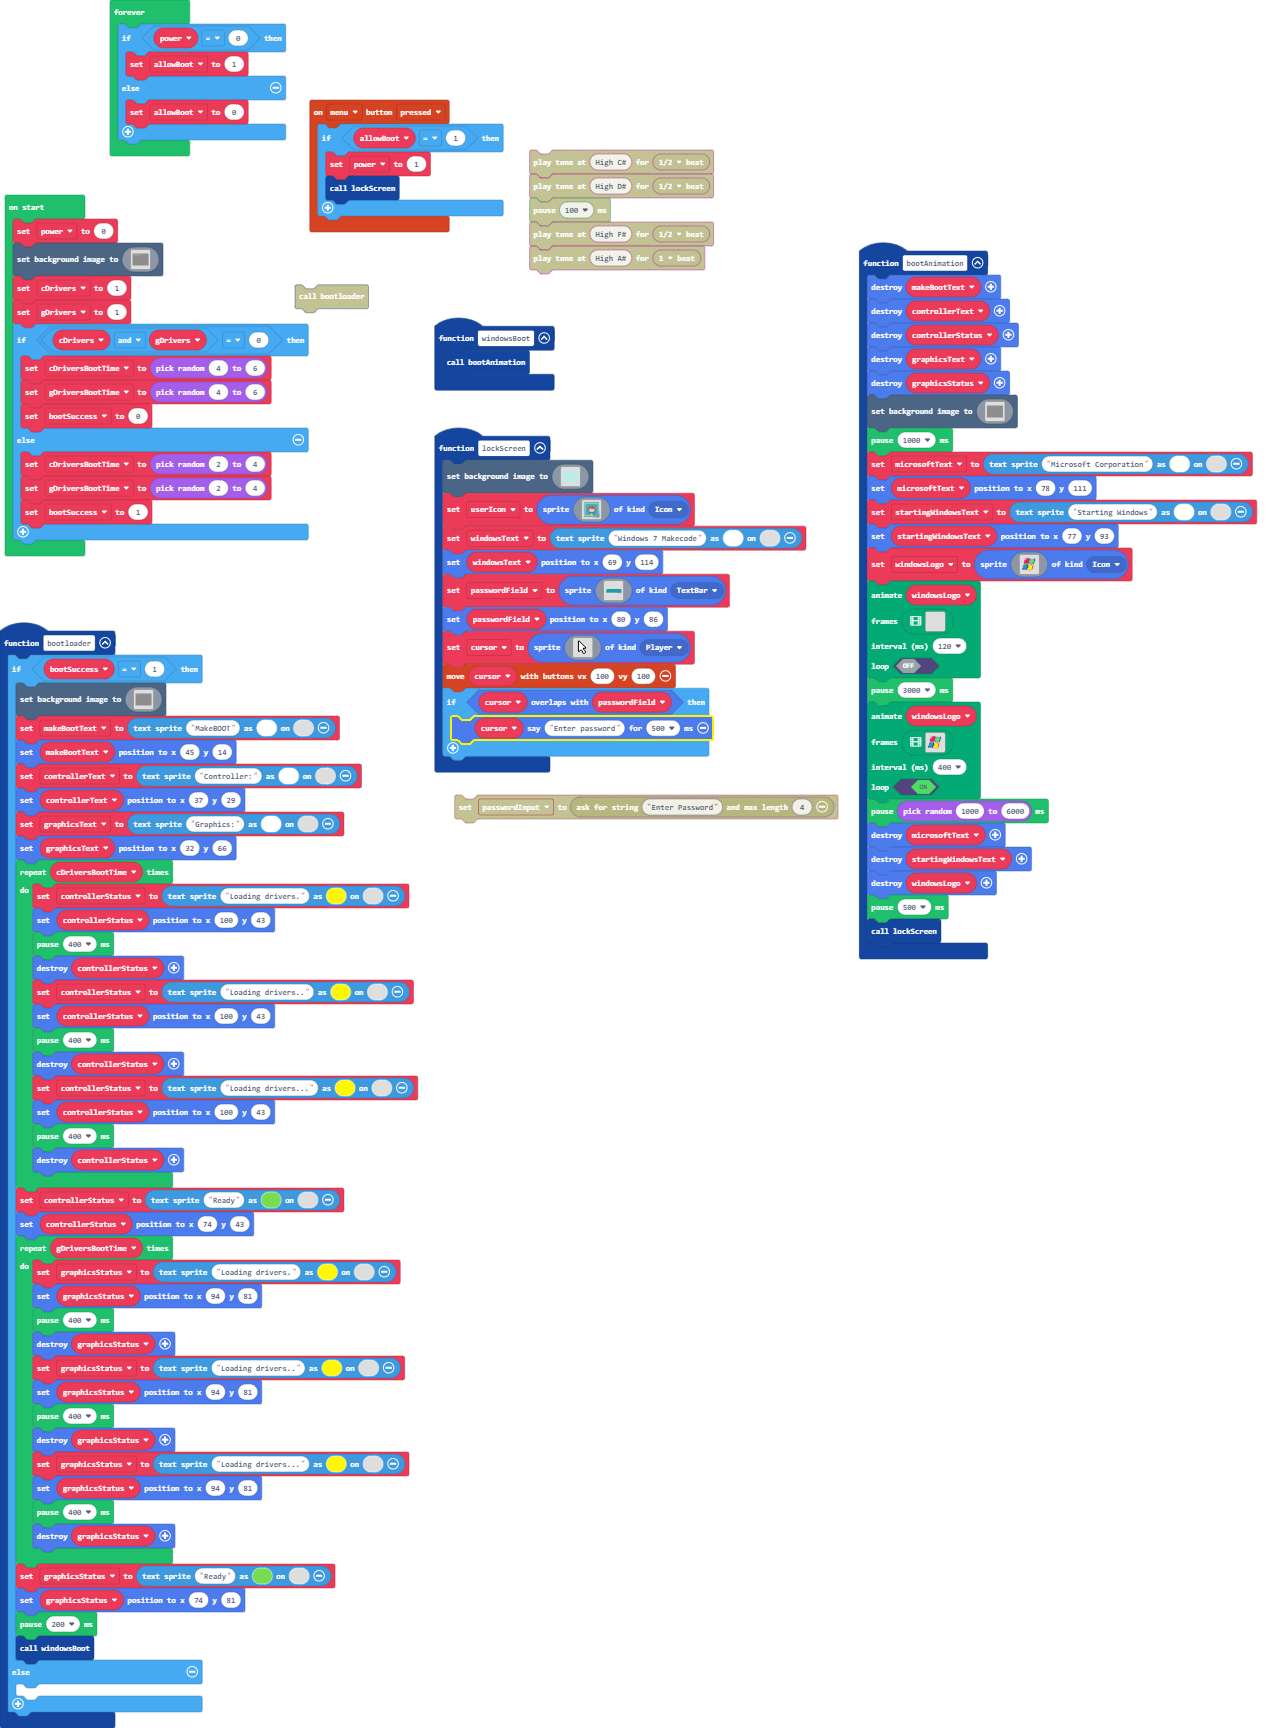
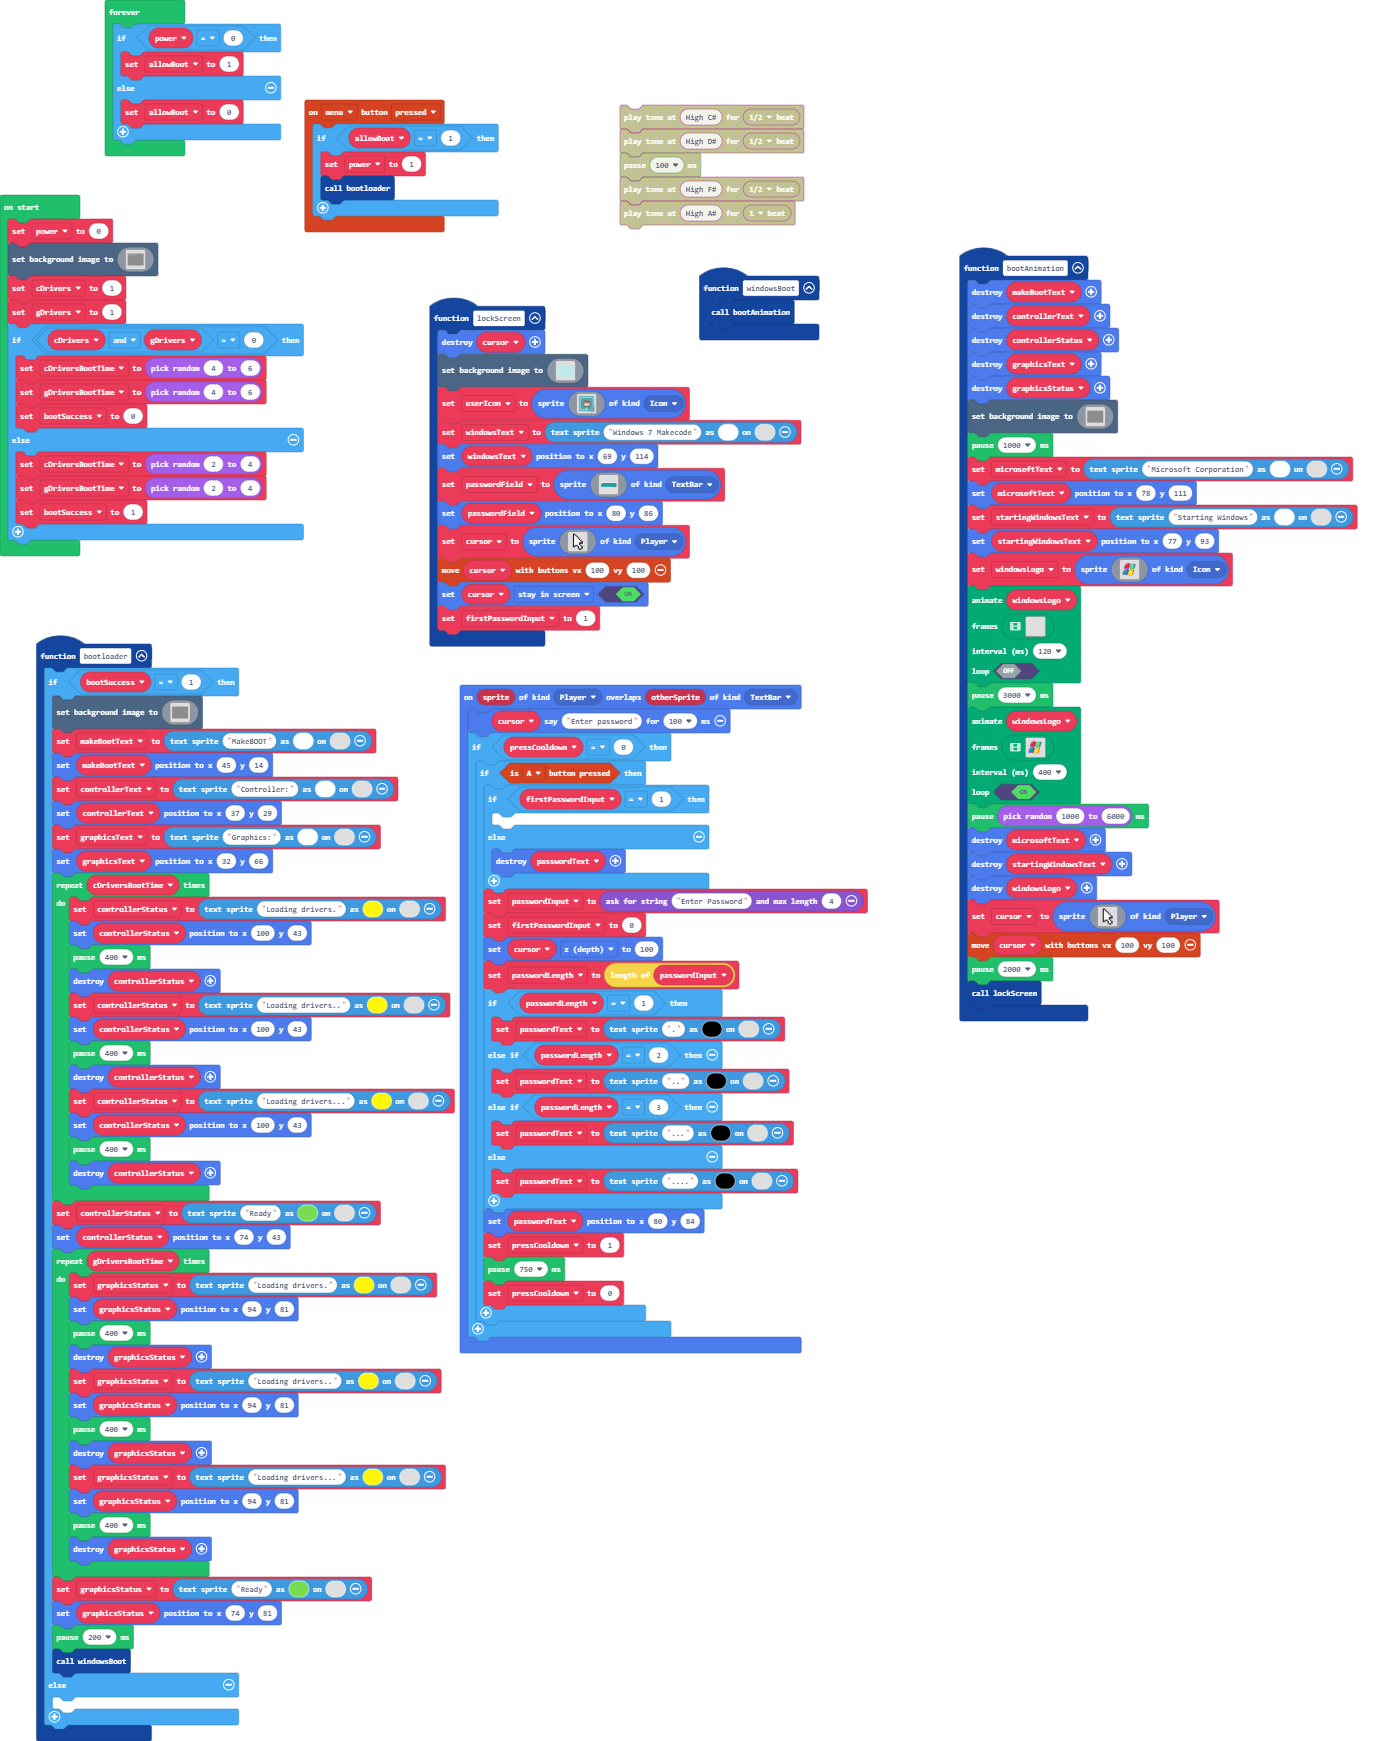
Update pxt.json, main.blocks, main.ts

diff --git a/main.ts b/main.ts
@@ -978,13 +978,59 @@ function bootAnimation () {
     microsoftText.destroy()
     startingWindowsText.destroy()
     windowsLogo.destroy()
-    pause(500)
+    cursor = sprites.create(img`
+        f f . . . . . . 
+        f 1 f . . . . . 
+        f 1 1 f . . . . 
+        f 1 1 1 f . . . 
+        f 1 1 1 1 f . . 
+        f 1 1 1 1 1 f . 
+        f 1 1 1 1 1 1 f 
+        f 1 1 1 1 f f f 
+        f 1 1 1 1 f . . 
+        f 1 f f 1 1 f . 
+        f f . . f 1 1 f 
+        . . . . f 1 1 f 
+        . . . . . f f . 
+        `, SpriteKind.Player)
+    controller.moveSprite(cursor, 100, 100)
+    pause(2000)
     lockScreen()
 }
+sprites.onOverlap(SpriteKind.Player, SpriteKind.TextBar, function (sprite, otherSprite) {
+    cursor.say("Enter password", 100)
+    if (pressCooldown == 0) {
+        if (controller.A.isPressed()) {
+            if (firstPasswordInput == 1) {
+            	
+            } else {
+                passwordText.destroy()
+            }
+            passwordInput = game.askForString("Enter Password", 4)
+            firstPasswordInput = 0
+            cursor.z = 100
+            passwordLength = passwordInput.length
+            if (passwordLength == 1) {
+                passwordText = textsprite.create(".", 0, 15)
+            } else if (passwordLength == 2) {
+                passwordText = textsprite.create("..", 0, 15)
+            } else if (passwordLength == 3) {
+                passwordText = textsprite.create("...", 0, 15)
+            } else {
+                passwordText = textsprite.create("....", 0, 15)
+            }
+            passwordText.setPosition(80, 84)
+            pressCooldown = 1
+            pause(750)
+            pressCooldown = 0
+        }
+    }
+})
 function windowsBoot () {
     bootAnimation()
 }
 function lockScreen () {
+    cursor.destroy()
     scene.setBackgroundImage(img`
         9999999999999999999999999999999999999999999999999999999999999999999999999999999999999999999999999999999999999999999999999999999999999999999999999999999999999999
         9999999999999999999999999999999999999999999999999999999999999999999999999999999999999999999999999999999999999999999999999999999999999999999999999999999999999999
@@ -1161,27 +1207,23 @@ function lockScreen () {
         `, SpriteKind.TextBar)
     passwordField.setPosition(80, 86)
     cursor = sprites.create(img`
-        . . . . . . . . . . . . . . . . 
-        . . . f f . . . . . . . . . . . 
-        . . . f 1 f . . . . . . . . . . 
-        . . . f 1 1 f . . . . . . . . . 
-        . . . f 1 1 1 f . . . . . . . . 
-        . . . f 1 1 1 1 f . . . . . . . 
-        . . . f 1 1 1 1 1 f . . . . . . 
-        . . . f 1 1 1 1 1 1 f . . . . . 
-        . . . f 1 1 1 1 f f f . . . . . 
-        . . . f 1 1 1 1 f . . . . . . . 
-        . . . f 1 f f 1 1 f . . . . . . 
-        . . . f f . . f 1 1 f . . . . . 
-        . . . . . . . f 1 1 f . . . . . 
-        . . . . . . . . f f . . . . . . 
-        . . . . . . . . . . . . . . . . 
-        . . . . . . . . . . . . . . . . 
+        f f . . . . . . 
+        f 1 f . . . . . 
+        f 1 1 f . . . . 
+        f 1 1 1 f . . . 
+        f 1 1 1 1 f . . 
+        f 1 1 1 1 1 f . 
+        f 1 1 1 1 1 1 f 
+        f 1 1 1 1 f f f 
+        f 1 1 1 1 f . . 
+        f 1 f f 1 1 f . 
+        f f . . f 1 1 f 
+        . . . . f 1 1 f 
+        . . . . . f f . 
         `, SpriteKind.Player)
     controller.moveSprite(cursor, 100, 100)
-    if (cursor.overlapsWith(passwordField)) {
-        cursor.say("Enter password", 500)
-    }
+    cursor.setFlag(SpriteFlag.StayInScreen, true)
+    firstPasswordInput = 1
 }
 function bootloader () {
     if (bootSuccess == 1) {
@@ -1354,14 +1396,19 @@ function bootloader () {
 controller.menu.onEvent(ControllerButtonEvent.Pressed, function () {
     if (allowBoot == 1) {
         power2 = 1
-        lockScreen()
+        bootloader()
     }
 })
 let allowBoot = 0
-let cursor: Sprite = null
 let passwordField: Sprite = null
 let windowsText: TextSprite = null
 let userIcon: Sprite = null
+let passwordLength = 0
+let passwordInput = ""
+let passwordText: Sprite = null
+let firstPasswordInput = 0
+let pressCooldown = 0
+let cursor: Sprite = null
 let windowsLogo: Sprite = null
 let startingWindowsText: TextSprite = null
 let microsoftText: TextSprite = null
